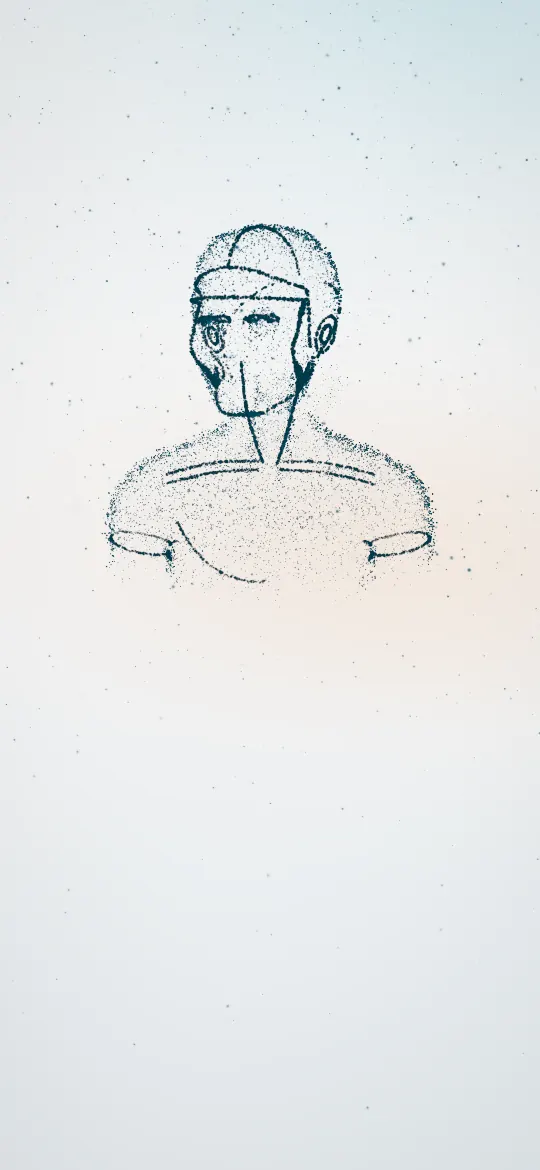
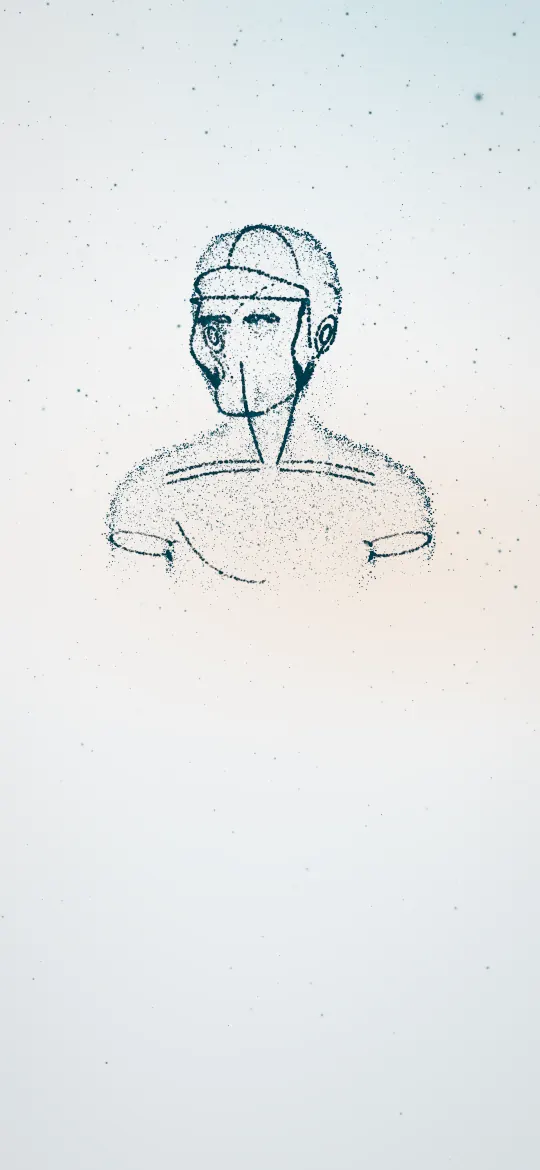
Zwischenstand Runde 4 und Hellmodus (in Arbeit, automatisch gesichert)
Claude-Session: https://claude.ai/code/session_01P2Mm3vCZRaVyvtNngVWocU

Changed region(s): [[0.1778, 0.1846, 0.8, 0.4923]]

diff --git a/ARCHITEKTUR.md b/ARCHITEKTUR.md
@@ -1012,7 +1012,7 @@ Skala in Türkis, Icon in Tinte und kräftiger, leiser Schatten statt Halo, vorm
 | robot | `lookHell` (Belichtung high 1.05 bis 1.15, Handy-Ausklang auf high 1.18; Stufe medium/low 1.04 bis 1.08, Prüfung 2: ohne Klarlack glänzt die Schale breiter und lief am Handy im Off-White aus; Führungslicht 0.5 bis 0.6, Fülllicht 0.26 bis 0.3, Kantenlicht neutral `rimWarm` 0.45, im Ausklang 0.85 wie dunkel, Bloom 0.12, Schwelle 2.0), helles Studio für die Spiegelungen (`buildStudioEnv(..., { light: true })`: alles neutral weiss statt mit dem Blaustich von `palette.white`, Kuppel 0.14 / 0.22 / 0.5, also um den Horizont dunkler wie Abschatter; erst beim ersten Wechsel gebaut, die Materialien tauschen nur die Textur), Schale neutral weiss 0.9 (`setTheme` tauscht nur die Farbe; vorher eisblau), auf medium/low Spiegelung 1.0 bis 1.1 statt 1.45 bis 1.65 (nur hell), Abschatter zur Silhouette dort 0.62 mit Exponent 1.6 statt 0.48 und 2.2 (`#ifdef AB_CHEAP` im hellen Weg), Hologramm und Mechanik mit eigenem Weg (oben), Röntgen-Kontur bleibt bis brain@0.26 und blendet bis 0.46 aus (dunkel 0.15 bis 0.46) |
 | brain | Faktoren cortex und dust 3.2, neurons 2.6, edges und fibers 4.5, glows bleiben Licht; nahe, unscharfe Punkte und Zellen leiser (oben). Prüfung 2: Impulse, Funken und Lichtpakete in Verbindungen und Fasern nur als leise Verdichtung der Linie in Türkis (gedeckelt, vorher dunkle Striche wie Kratzer auf der Linse), unscharfe Rindenpunkte ab 5 px leiser (vorher ab 8 px), mittlere Zellen ab 6 px wie grosse behandelt und feuernde Zellen 40 % leiser (vorher Tintentropfen von 5 bis 12 px) |
 | cables | fibre 6.5, ring 2.0, tip 1.6, mote 0.4 (vorher 1.2: grauer Staub hinter dem Text), Knoten eigener heller Weg; Ring und Icon-Striche dort mindestens rund 1.5 Bildpunkte breit, Ring deckender (Prüfung 2: am Handy waren die Knoten nur blasse Ringe). Beschriftungen der Tippflächen (`.node-hits`, Hochformat) im hellen Thema mit Deckkraft min(1, 1.7 x Sichtbarkeit) (`js/nodes.js`, liest das Thema nur beim Wechsel); die Textzone, der die Beschriftungen ausweichen, beginnt hell im Hochformat direkt über dem Text statt rund 50 px darüber (Kalender bei cables@0.6 vorher Sichtbarkeit 0.13, jetzt 0.64; Beschriftungen direkt am Kicker weiter aus) |
-| dna | glyph 2.3, rung 1.8, wire 2.6, band 2.2, streak 1.4; grosse Zeichen nah an der Kamera im hellen Thema bis 70 % leiser (`GLYPH_FS`, sonst lenkt die Tinte vom Text ab) |
+| dna | glyph 2.3, rung 1.8, wire 2.6, band 2.2, streak 1.4; grosse Zeichen nah an der Kamera im hellen Thema bis 70 % leiser (`GLYPH_FS`, sonst lenkt die Tinte vom Text ab). Abnahme (06.11.2026): die Zeichenspitze beim Aufbau des Gerüsts ist hell nur eine leise Verdichtung der Linie (`WIRE_FS`, `#ifdef CODANI_LIGHT`: Spitze x 0.45, Hof 0.02 statt 0.12), vorher lag am Ende jeder Linie ein dunkler, unscharfer Strich wie Schmutz |
 
 **Looks:** `BASE_LOOK_HELL` (config.js) sind die Grundwerte hell (Bloom 0.16, Schwelle 1.7, Vignette 0.08, Korn 0.02,
 keine Aberration). Die Schlüssel in `THEME_LOOK_KEYS` (exposure, bloom, bloomRadius, bloomThreshold, aberration,
@@ -1077,6 +1077,10 @@ Prüfung 2 (06.11.2026):
   dunkelsten 2-%-Wert hinter den Glyphen, jetzt 6.6 bis 7.2:1 (iPhone 13). Desktop unverändert 5.1 bis 5.6:1.
 - **Schalter:** ohne JavaScript ausgeblendet, während der Vorbereitung `aria-busy` (siehe Ablauf).
 
+Abnahme (06.11.2026): Die Bildbeschreibung des Hero-Posters (`poster` in `CHAPTERS`, `_src/pages/start.js`) gilt für
+beide Themen ("Büste eines Androiden aus feinen Punkten und Linien", vorher "aus leuchtenden Lichtpunkten vor dunklem
+Hintergrund", im hellen Fallback falsch).
+
 ### Poster (ohne WebGL und bei reduzierter Bewegung)
 
 Eigene helle Poster `assets/img/poster-<beat>-hell.webp` (1440 x 900) und `poster-<beat>-hell-m.webp` (540 x 1170) an
@@ -1086,7 +1090,12 @@ UI und ohne Korn, WebP Qualität 78. Aufnahme: `studio-arbeit/hellmodus/tools/po
 03.11.2026 nach Prüfung 1 neu aufgenommen (Mechanik ohne Krümel, Hologramm, Schale neutral weiss). Nach Prüfung 2
 (06.11.2026) neu: `poster-brain-hell.webp` (Impulse leise) und im Hochformat robot, zoom, brain, cables, outro
 (`-hell-m`, Studio am Handy grauer, Knoten kräftiger, Impulse leise). Die Aufnahme läuft auf `?q=high` mit 540 px
-Breite, also mit den Handy-Farbwelten `BACKDROPS_HELL_M`, aber der Büste der Stufe high.
+Breite, also mit den Handy-Farbwelten `BACKDROPS_HELL_M`, aber der Büste der Stufe high. Abnahme (06.11.2026): neu
+`poster-cables-hell.webp` (die Knoten sind seit Prüfung 2 auch am Desktop kräftiger) und alle sieben `-hell-m` (im
+Hochformat weichen Hintergrund und Knoten-Beschriftungen der Textzone wieder aus, der Scrim im FxPass bleibt aus;
+intro und dna stammten noch vom 03.11. mit hellem Scrim). Aufnahme mit `abnahme/tools/shots.js` (`--clean --nograin
+--reload`, Handy `--vp=540x1170`), Umwandlung wie oben. Die übrigen sechs Desktop-Poster sind unverändert aktuell
+(neu aufgenommen und verglichen: Unterschiede nur durch Bewegung).
 
 ### Testen
 
@@ -1102,7 +1111,15 @@ node S/hellmodus/behebung-2/tools/switch_order.js <out> robot@0.9 [--mobile]   #
 node S/hellmodus/behebung-2/tools/kicker_nogl.js <out> [--mobile] [--q=?nogl&hell] # Kicker im Fallback, Auswertung
 python3 S/hellmodus/behebung-2/tools/kicker_messen.py <out>/m-kicker.json 3        #   mit kicker_messen.py (DPR)
 python3 S/hellmodus/behebung-2/tools/bueste_messen.py <bild> x0,y0,x1,y1 [x,y0,y1] # Anteil ab 240, Spanne, Scheitel
+node S/hellmodus/abnahme/tools/shots.js <out> robot@0.5,... --page='?q=high&hell' [--mobile] [--root=<repo>]  # wartet auf Bilder
+node S/hellmodus/abnahme/tools/fallback_check.js <out>   # Fallback, Schalter ohne 3D, ?hell/?dunkel, ohne JS, Unterseiten
+node S/hellmodus/abnahme/tools/axe_start.js              # axe-core Startseite hell und dunkel (Fallback, Desktop und Handy)
 ```
+
+**Aufnahmen nie parallel laufen lassen.** SwiftShader braucht pro Bild rund eine Sekunde; laufen zwei Aufnahmen
+gleichzeitig, kann ein Bildschirmfoto nach fester Wartezeit noch einen alten Stand zeigen (Abnahme: brain@0.3 mit
+Mechanik, die dort längst aufgelöst ist). `abnahme/tools/shots.js` zählt darum die gerenderten Bilder nach dem Sprung
+(Zähler an `engine.render`, Standard mindestens 6) und wartet zusätzlich eine feste Zeit.
 
 **Prüfung 2 (06.11.2026), Messung:** Reihenfolge beim ersten Wechsel (SwiftShader, robot@0.9): erstes Bild im neuen
 Thema (unter dem festen Bild) und `data-theme` innerhalb von 13 bis 16 ms, nie Seite hell über dunklem 3D-Bild

diff --git a/_src/README.md b/_src/README.md
@@ -184,7 +184,8 @@ Neue Seiten: Datei in `pages/` anlegen, Pfad in `data/nav.json` (Menü, Fusszeil
   JavaScript ist der Knopf ausgeblendet. Farben der hellen Geschichte: `css/story.css`, Abschnitt "Hellmodus" (Kopfzeile
   mit kräftigem Off-White-Verlauf über der Szene, HUD fast deckend). Helle Poster: `assets/img/poster-<beat>-hell.webp`
   und `-hell-m.webp` (nach Prüfung 1 am 03.11.2026 neu aufgenommen, nach Prüfung 2 am 06.11.2026 brain sowie im
-  Hochformat robot, zoom, brain, cables und outro). Im Fallback hell steht der Text im Hochformat auf einer fast
+  Hochformat robot, zoom, brain, cables und outro, bei der Abnahme am 06.11.2026 cables und alle sieben im
+  Hochformat; Werkzeuge und Ablauf in ARCHITEKTUR.md Kapitel 14). Im Fallback hell steht der Text im Hochformat auf einer fast
   deckenden Off-White-Fläche (Kicker mindestens 6.6:1). Die Unterseiten sind schon hell und haben keinen
   Schalter.
 - `js/ui.js` macht nur noch Geschichte, Preloader, HUD, Anker und Cursor. Navigation, Menü, FAQ, Formular und
